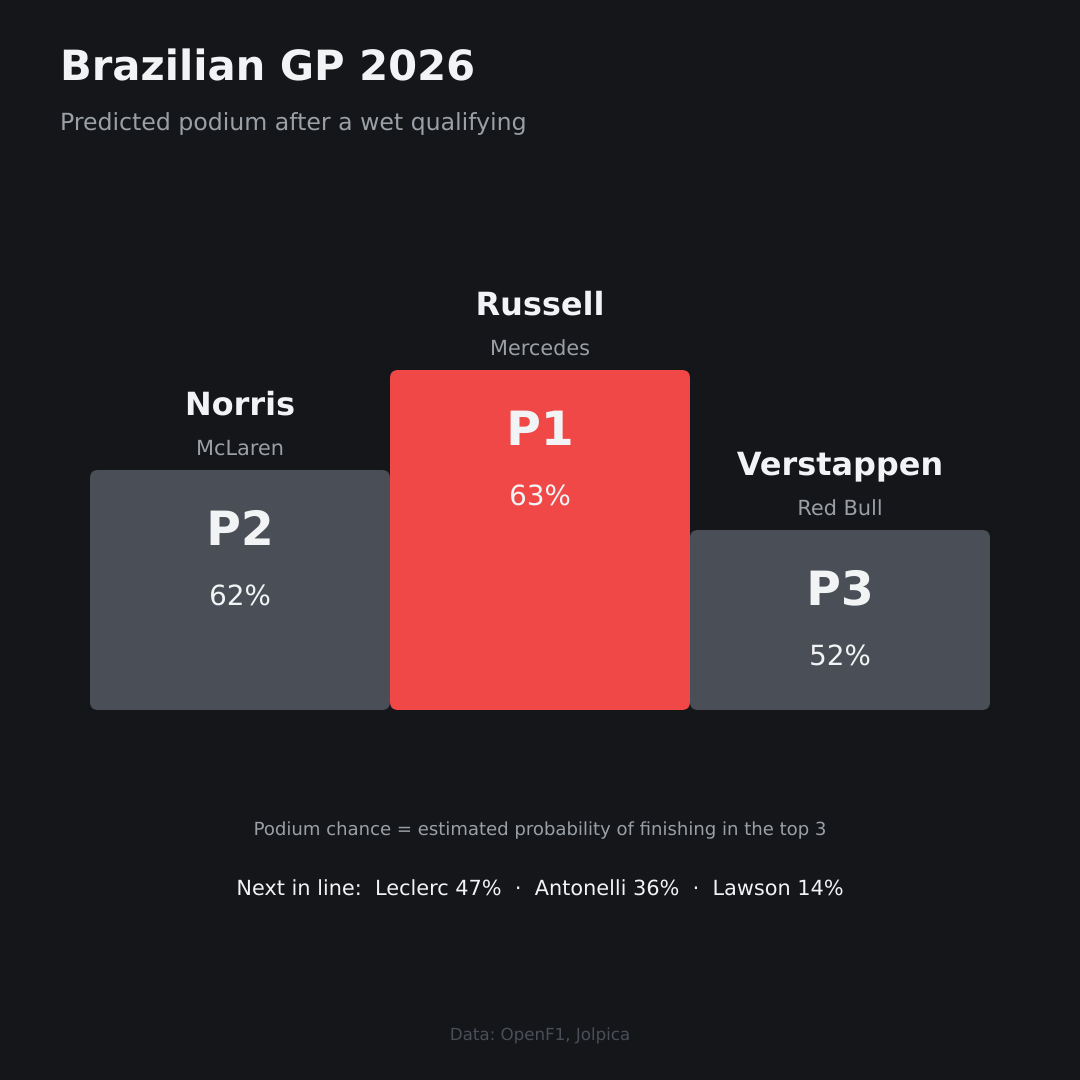
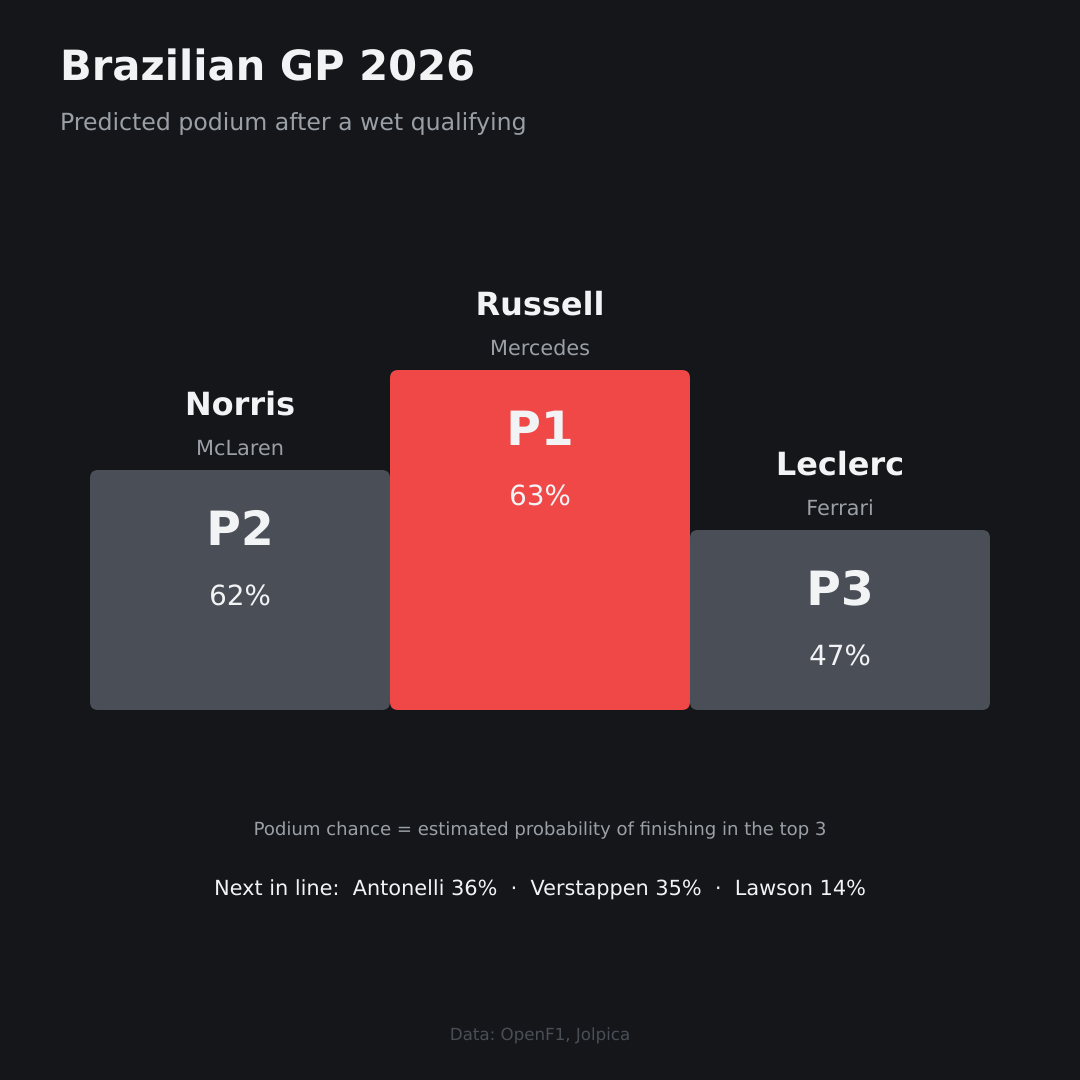
Brazil: correct the starting grid (Verstappen 22nd) and re-run

diff --git a/README.md b/README.md
@@ -9,12 +9,13 @@ All notebooks are the same template. Only the settings cell at the top changes (
 | Race | Predicted podium | Actual podium | Right |
 |---|---|---|---|
 | Mexico City (1 Nov) | Russell, Verstappen, Hamilton | Verstappen, Hamilton, Antonelli | 2 of 3 |
-| Brazil (8 Nov) | Russell, Norris, Verstappen | to be added after the race | |
+| Brazil (8 Nov) | Russell, Norris, Leclerc | to be added after the race | |
 
 Notes on the table:
 
 - Mexico was re-run after the race with the final version of the code, using only data from before the race. The picks can differ from what I posted at the time.
-- The Brazil prediction was committed before the race, no penalties were announced at that point.
+- The Brazil prediction was committed before the race. My first version used the raw qualifying order, which was wrong: Verstappen started 22nd. I corrected the grid, the drivers behind him move up a place, and re-ran the notebook.
+- The Mexico notebook still uses the older grid code. I will re-run it with the same grid handling as Brazil.
 - I will keep the misses in the table.
 
 ## How it works
